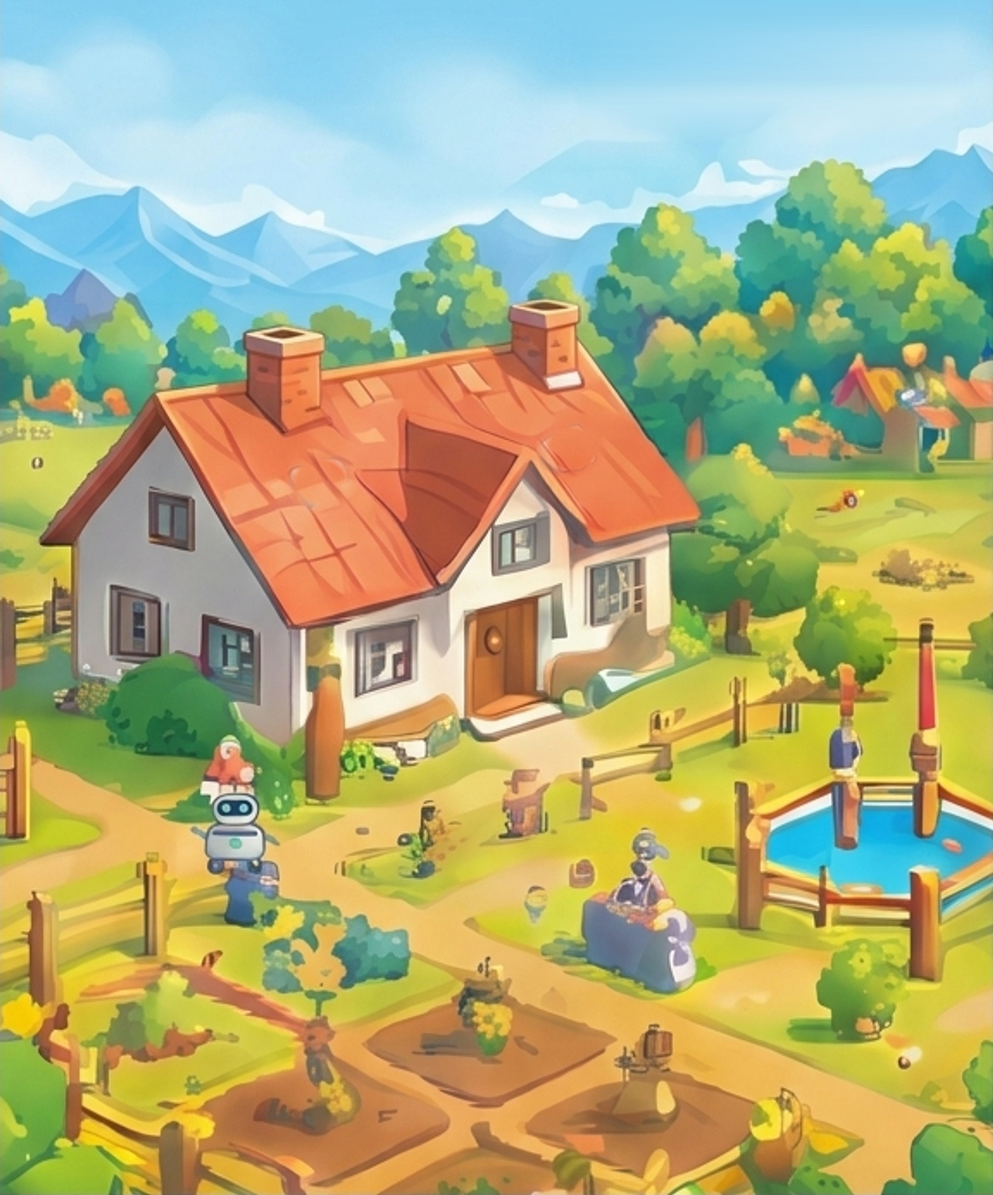
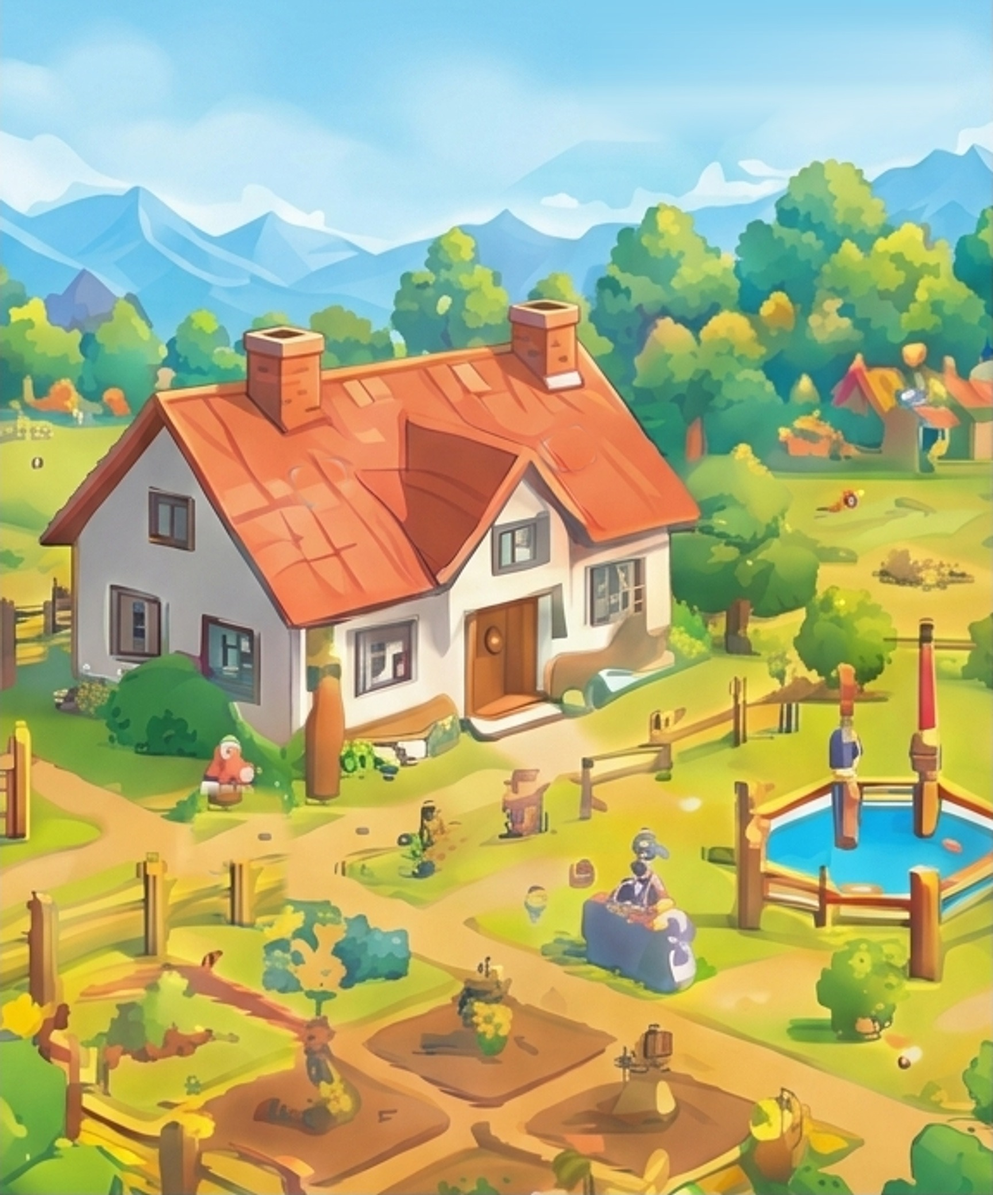
우체통 파스텔 색 8가지(체리·벚꽃·라벤더·크림·하늘·민트·레몬·밤하늘)와 하트 스티커, 농장 그림 속 로봇 지우기
- 농장 배경 그림에 로봇이 그려져 있어서 하우스 없는 농장에서는 순찰 로봇과 함께 두 마리로 보였다 → 그림 속 로봇을 길·울타리로 지움
- 우체통 색을 농장 그림과 어울리는 파스텔 색으로 바꾸고 몸통에 작은 하트
- Firebase 호스팅 배포 기록(.firebase/)은 깃허브에 올리지 않음

Changed region(s): [[0.1875, 0.6465, 0.3125, 0.8004]]

diff --git a/lib/widgets/farm_mailbox.dart b/lib/widgets/farm_mailbox.dart
@@ -3,16 +3,20 @@ import 'package:flutter/material.dart';
 import 'common.dart';
 
 /// 우체통 색 (이름, 색). 편지 창 아래에서 고를 수 있고, 고른 색은 기기에 저장된다.
+/// 파스텔 느낌의 예쁜 색 (농장 그림과 어울리게 채도를 살짝 낮췄다)
 const mailboxColors = <(String, Color)>[
-  ('빨강', Color(0xFFE5483F)),
-  ('분홍', Color(0xFFF58BB4)),
-  ('보라', Color(0xFF9B6BD6)),
-  ('하양', Color(0xFFF7F5F0)),
-  ('하늘', Color(0xFF6CC4F0)),
-  ('검정', Color(0xFF34343C)),
-  ('노랑', Color(0xFFF7C843)),
-  ('초록', Color(0xFF5DB55A)),
+  ('체리', Color(0xFFEF6461)),
+  ('벚꽃', Color(0xFFF6A5C5)),
+  ('라벤더', Color(0xFFB79CE0)),
+  ('크림', Color(0xFFFFF6E6)),
+  ('하늘', Color(0xFF8ED1F2)),
+  ('민트', Color(0xFF7FD6BC)),
+  ('레몬', Color(0xFFFFD966)),
+  ('밤하늘', Color(0xFF45415A)),
 ];
+
+/// 레몬색 우체통 (깃발을 노랑 대신 빨강으로 그린다)
+const _lemon = Color(0xFFFFD966);
 
 /// 저장된 번호를 안전하게 색으로 바꾼다 (범위를 벗어나면 빨강)
 Color mailboxColorOf(int index) => mailboxColors[(index >= 0 && index < mailboxColors.length) ? index : 0].$2;
@@ -20,7 +24,7 @@ Color mailboxColorOf(int index) => mailboxColors[(index >= 0 && index < mailboxC
 /// 농장에 서 있는 작은 우체통. 새 버전이 나오면 편지가 와서 노란 깃발이 서고 빨간 숫자 1이 통통 튄다.
 /// 누르면 [onTap] (편지 창 열기). 코드로 그려서 큰 화면에서도 선명하다.
 class FarmMailbox extends StatefulWidget {
-  const FarmMailbox({super.key, required this.hasLetter, required this.onTap, this.size = 46, this.active = true, this.color = const Color(0xFFE5483F)});
+  const FarmMailbox({super.key, required this.hasLetter, required this.onTap, this.size = 46, this.active = true, this.color = const Color(0xFFEF6461)});
   final bool hasLetter;
   final VoidCallback onTap;
   final double size;
@@ -106,7 +110,7 @@ class _FarmMailboxState extends State<FarmMailbox> with SingleTickerProviderStat
 
 /// 나무 기둥 + 둥근 지붕의 우체통 + 편지 넣는 구멍 + 옆의 노란 깃발 (편지가 있으면 서 있다)
 class MailboxPainter extends CustomPainter {
-  const MailboxPainter({required this.flagUp, this.color = const Color(0xFFE5483F)});
+  const MailboxPainter({required this.flagUp, this.color = const Color(0xFFEF6461)});
   final bool flagUp;
   final Color color;
 
@@ -136,8 +140,16 @@ class MailboxPainter extends CustomPainter {
     canvas.drawPath(body, line);
     // 반짝임
     canvas.drawOval(Rect.fromLTWH(w * .24, h * .27, w * .12, h * .1), Paint()..color = const Color(0x66FFFFFF));
+    // 몸통 아래쪽의 작은 하트 스티커 (귀엽게)
+    final hc = Offset(w * .5, h * .505), hr = w * .055;
+    final heart = Path()
+      ..moveTo(hc.dx, hc.dy + hr * .9)
+      ..cubicTo(hc.dx - hr * 1.6, hc.dy - hr * .2, hc.dx - hr * .7, hc.dy - hr * 1.3, hc.dx, hc.dy - hr * .4)
+      ..cubicTo(hc.dx + hr * .7, hc.dy - hr * 1.3, hc.dx + hr * 1.6, hc.dy - hr * .2, hc.dx, hc.dy + hr * .9)
+      ..close();
+    canvas.drawPath(heart, Paint()..color = light ? const Color(0xFFF28FA8) : Colors.white.withValues(alpha: .9));
     // 편지 넣는 구멍
-    final slot = RRect.fromRectAndRadius(Rect.fromLTWH(w * .32, h * .42, w * .36, h * .045), Radius.circular(h * .02));
+    final slot =RRect.fromRectAndRadius(Rect.fromLTWH(w * .32, h * .42, w * .36, h * .045), Radius.circular(h * .02));
     canvas.drawRRect(slot, Paint()..color = const Color(0xFF3A2620));
     // 편지가 있으면 흰 봉투 끝이 구멍 위로 살짝 보인다
     if (flagUp) {
@@ -161,7 +173,7 @@ class MailboxPainter extends CustomPainter {
       ..lineTo(0, -h * .2)
       ..close();
     // 우체통이 노란색이면 깃발은 빨간색으로 (눈에 띄게)
-    canvas.drawPath(flag, Paint()..color = color == mailboxColors[6].$2 ? const Color(0xFFE5483F) : const Color(0xFFFFC93C));
+    canvas.drawPath(flag, Paint()..color = color == _lemon ? const Color(0xFFE5483F) : const Color(0xFFFFC93C));
     canvas.drawPath(flag, Paint()..style = PaintingStyle.stroke..strokeWidth = math.max(1, w * .02)..color = const Color(0xFF6B5A4A));
     canvas.restore();
   }

diff --git a/test/mailbox_colors_preview_test.dart b/test/mailbox_colors_preview_test.dart
@@ -1,0 +1,34 @@
+// 우체통 색 8가지가 모두 에러 없이 그려지는지 확인하고, 환경변수 PREVIEW_DIR 이 있으면 한 장에 모아 저장한다.
+import 'package:flutter/material.dart';
+import 'package:flutter_test/flutter_test.dart';
+import 'package:sise_nongbu/widgets/farm_mailbox.dart';
+import 'preview_font.dart';
+
+void main() {
+  testWidgets('우체통 색 8가지 (편지 있음)', (tester) async {
+    await loadPreviewFonts();
+    final key = GlobalKey();
+    tester.view.physicalSize = const Size(960, 220);
+    tester.view.devicePixelRatio = 1;
+    addTearDown(tester.view.reset);
+    await tester.pumpWidget(MaterialApp(
+      home: RepaintBoundary(
+        key: key,
+        child: Container(
+          color: const Color(0xFFB9DC8A),
+          child: Row(mainAxisAlignment: MainAxisAlignment.spaceEvenly, children: [
+            for (final c in mailboxColors)
+              Column(mainAxisSize: MainAxisSize.min, children: [
+                FarmMailbox(hasLetter: true, active: false, onTap: () {}, size: 78, color: c.$2),
+                const SizedBox(height: 6),
+                Text(c.$1, style: const TextStyle(fontSize: 16, fontWeight: FontWeight.w800, color: Color(0xFF1F3D2B))),
+              ]),
+          ]),
+        ),
+      ),
+    ));
+    expect(find.byType(FarmMailbox), findsNWidgets(mailboxColors.length));
+    expect(tester.takeException(), isNull);
+    await savePreview(tester, key, 'mailbox_colors', pixelRatio: 1);
+  });
+}
